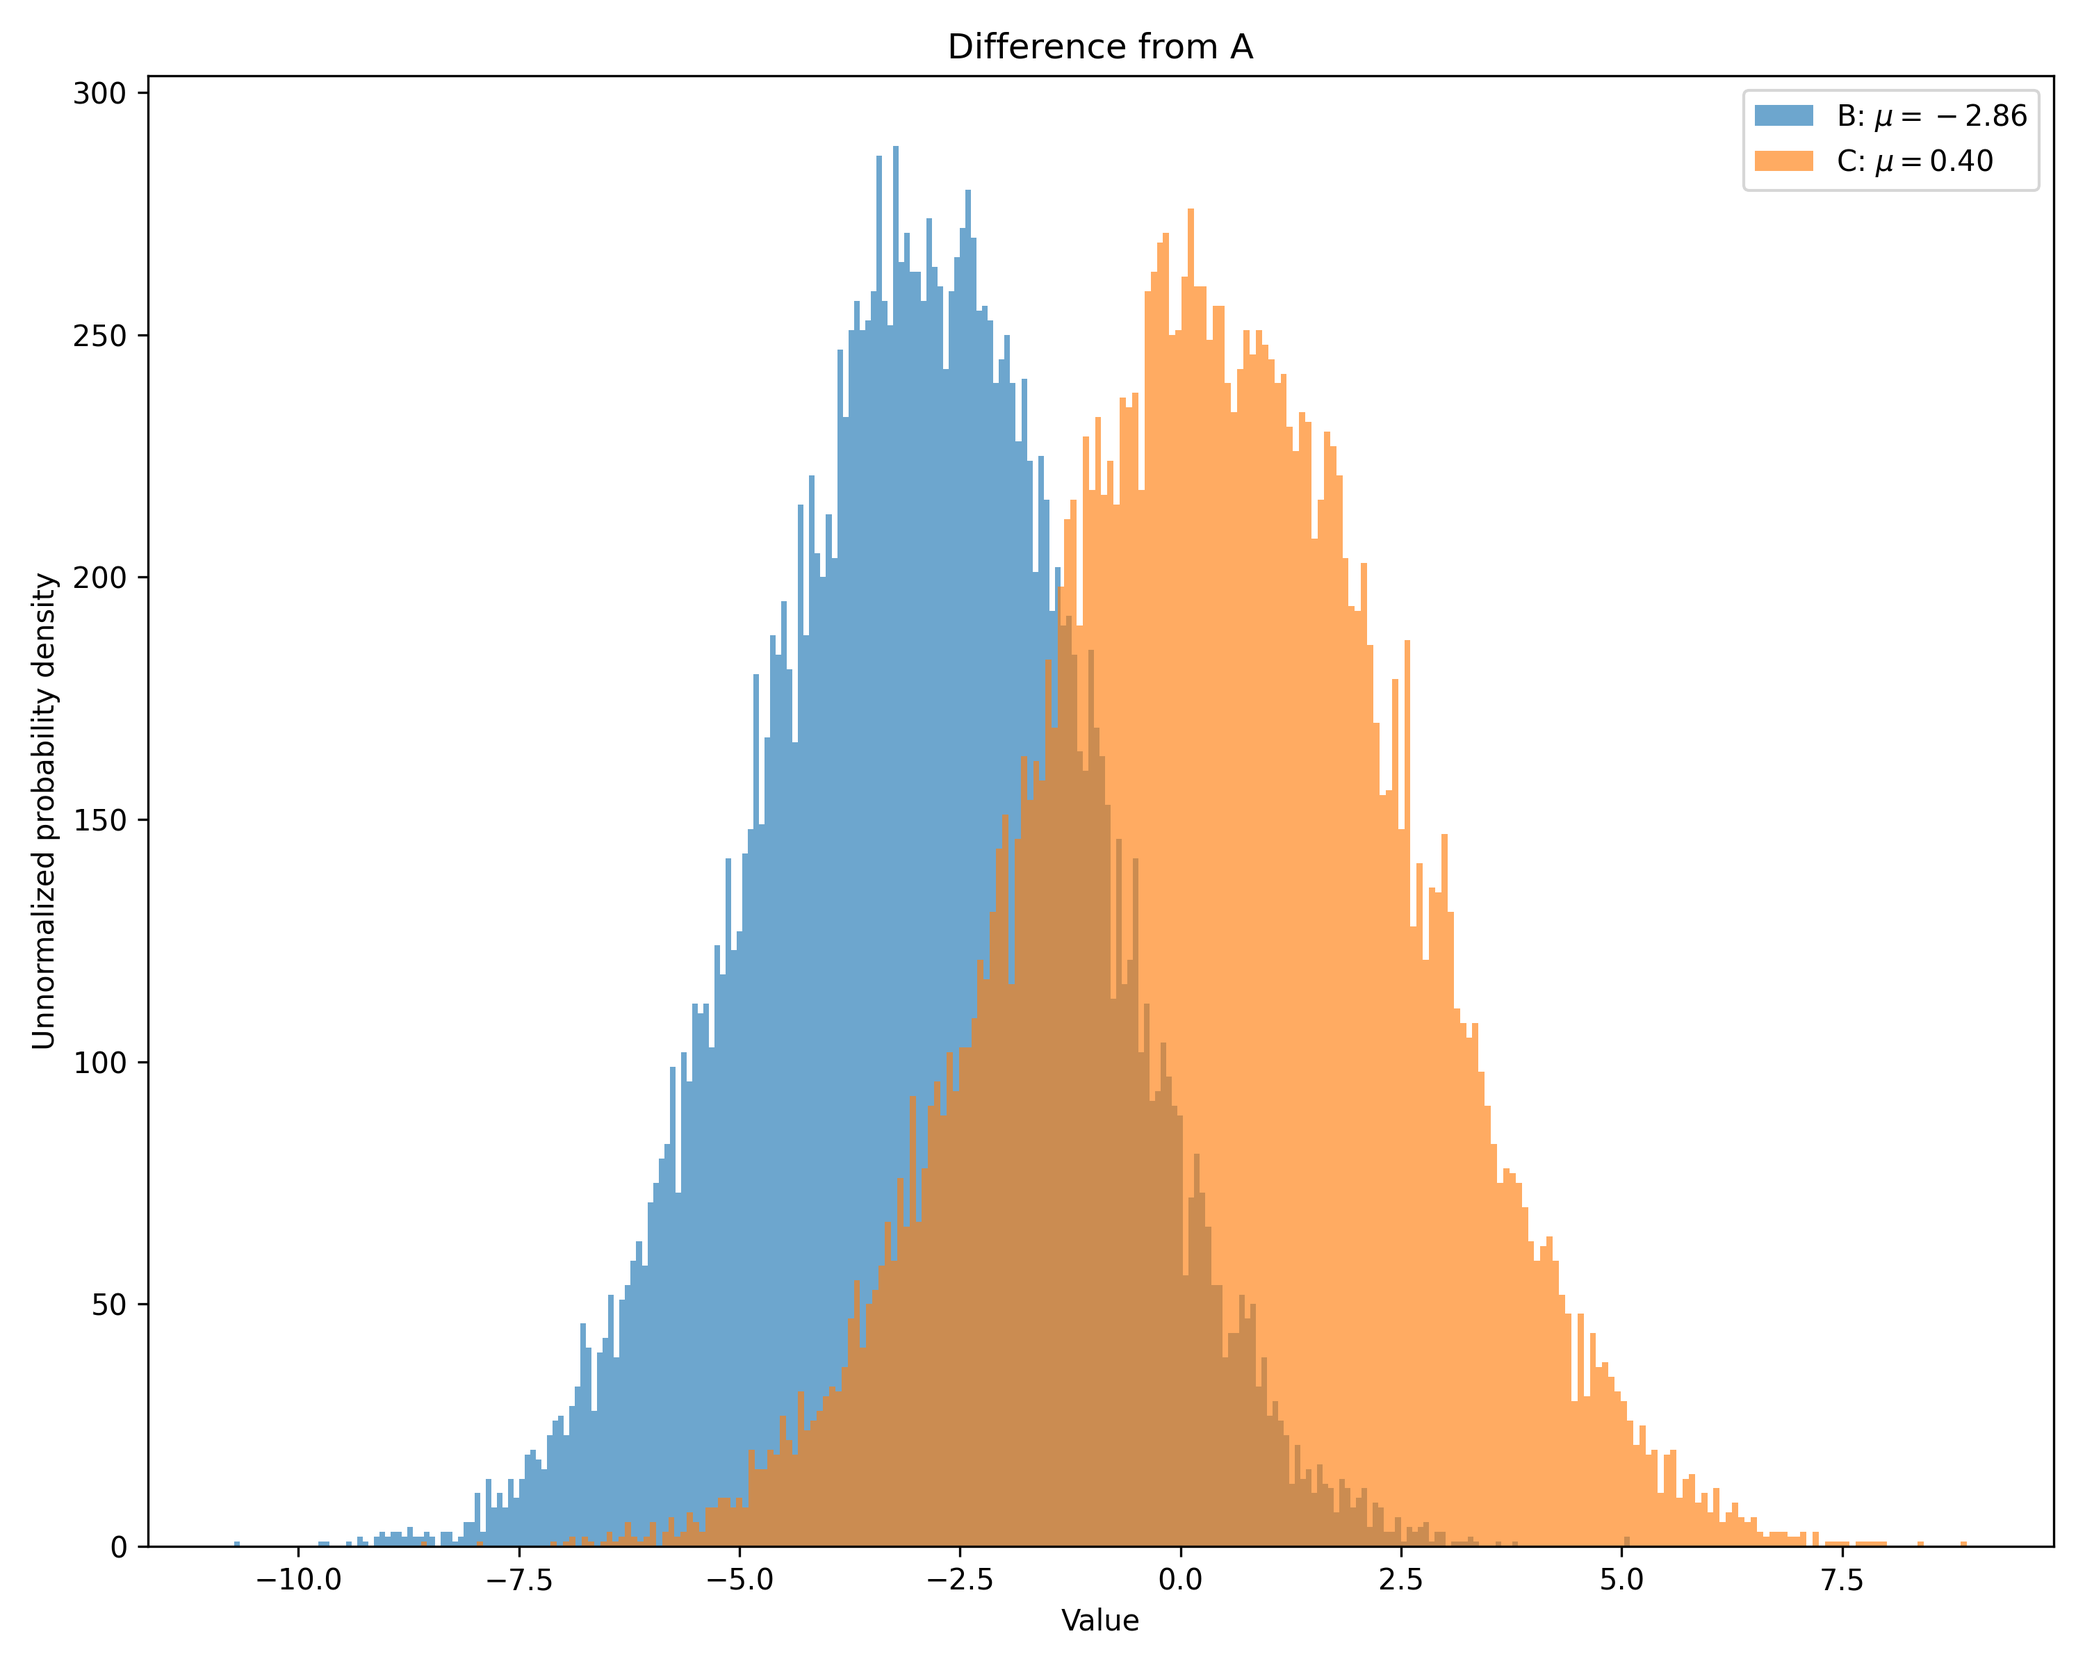
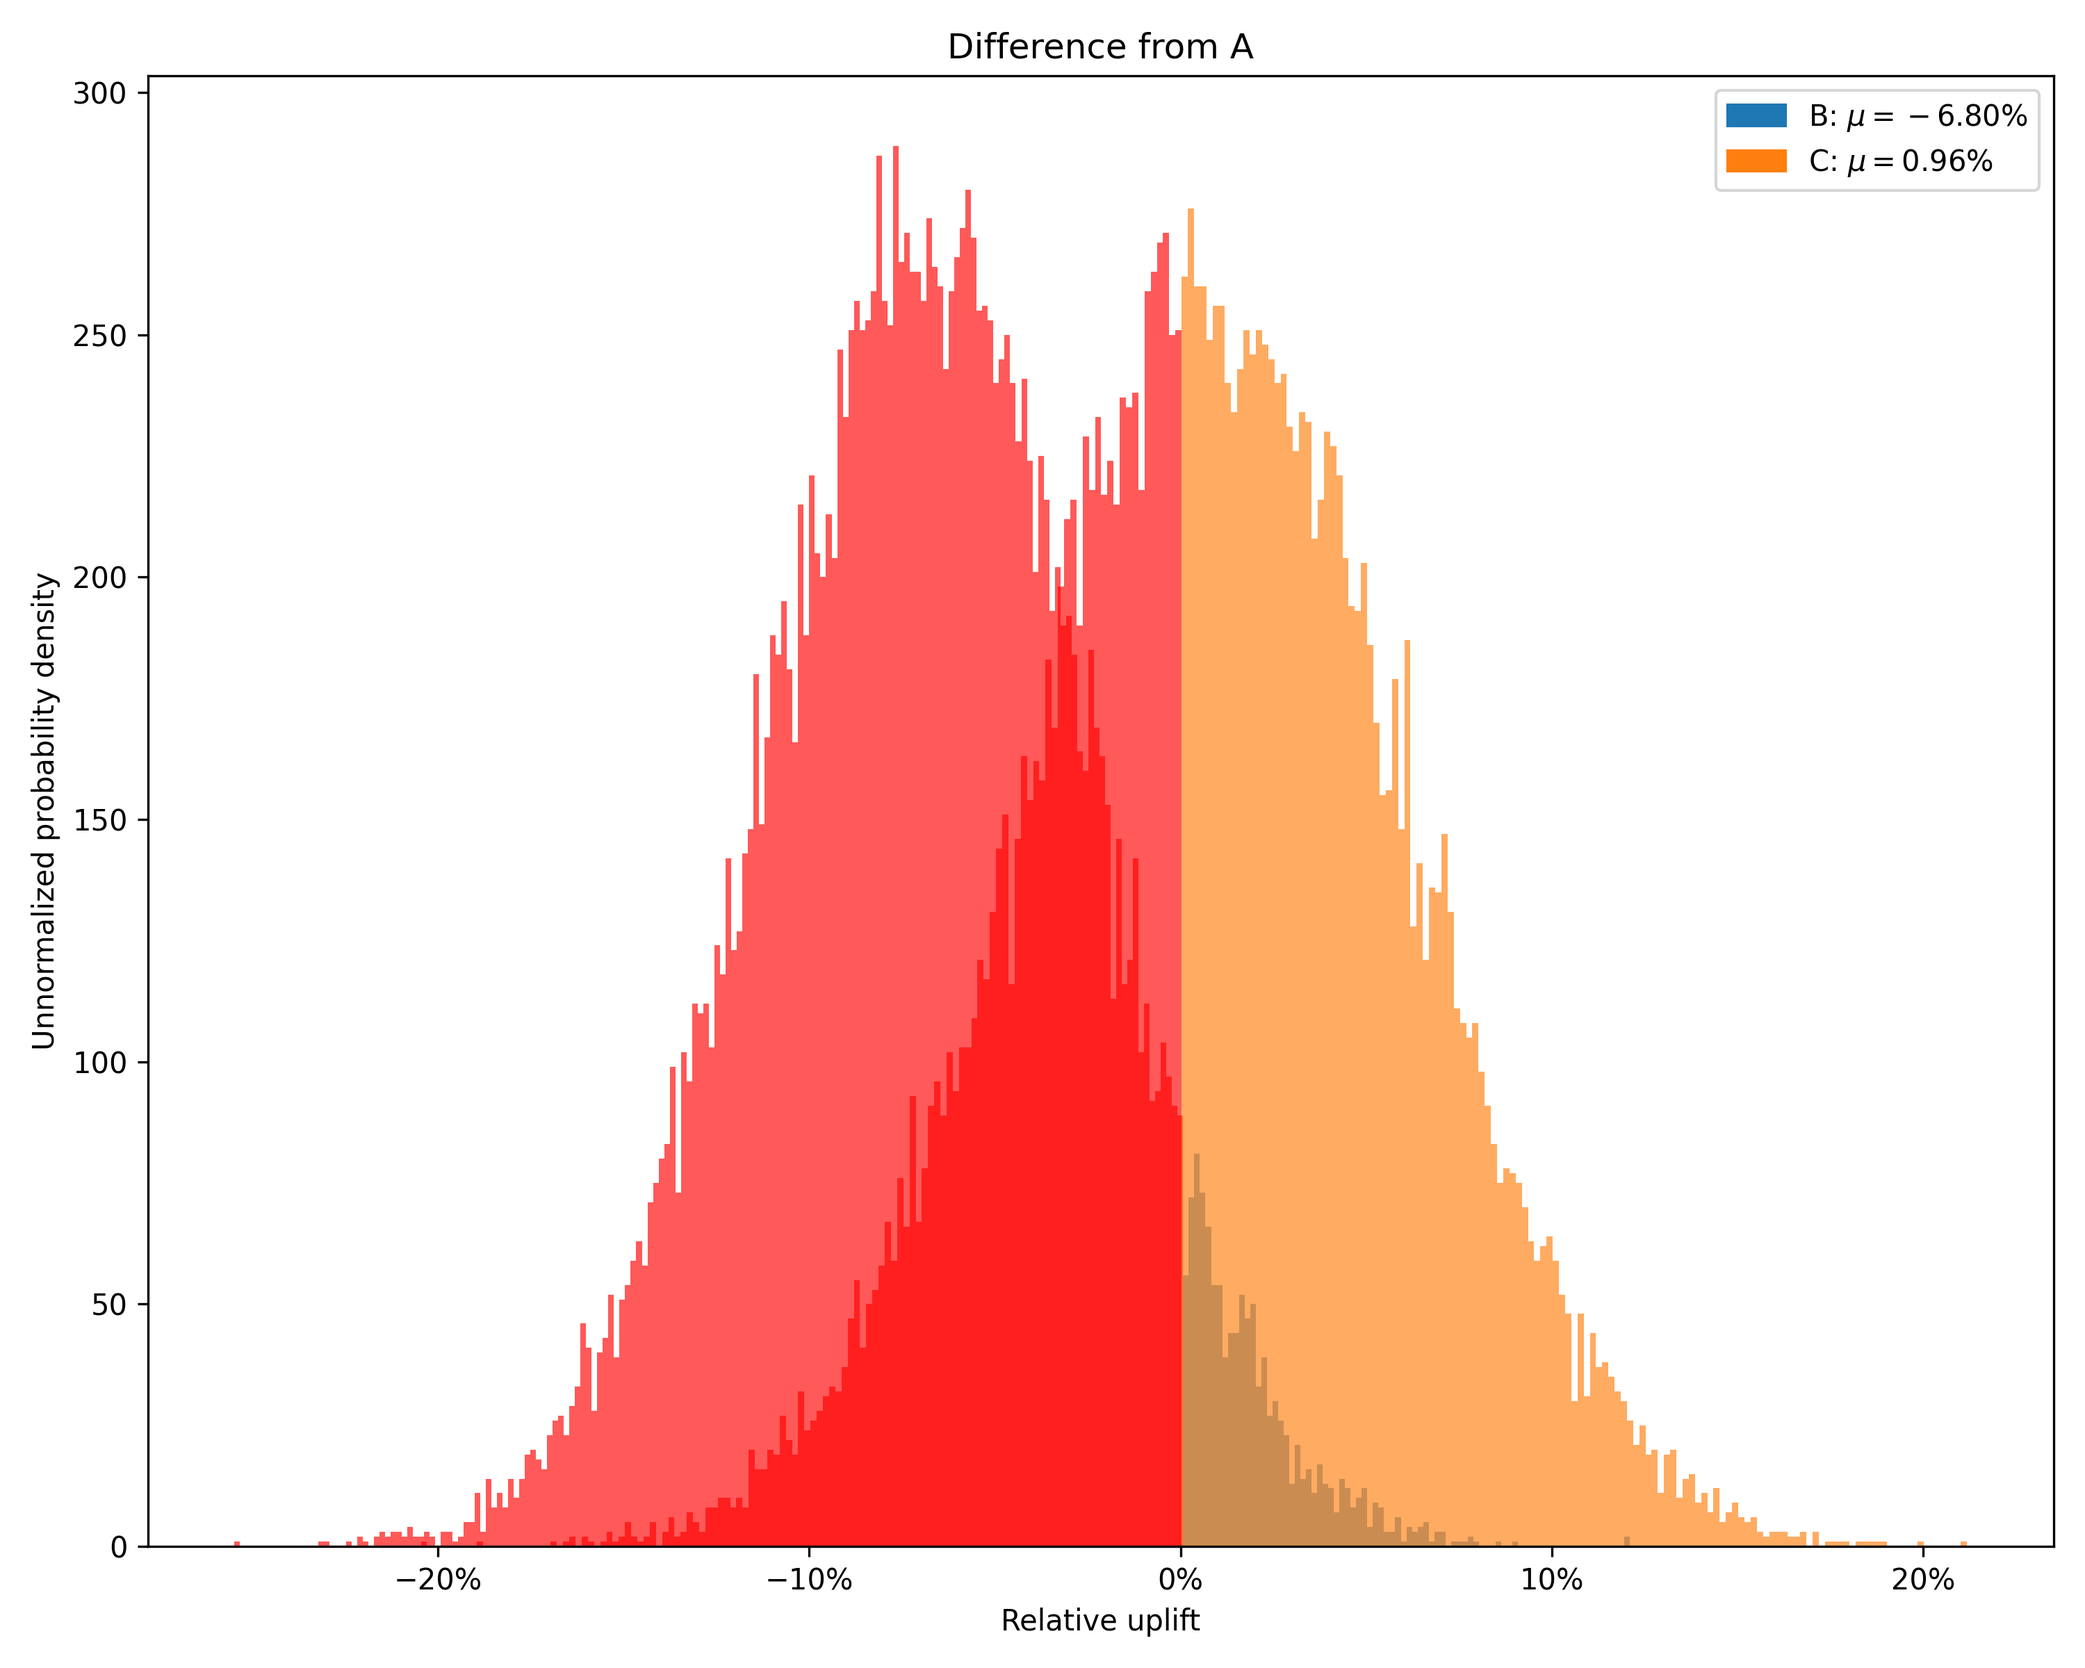
Updating plots, adding uplift to Poisson test.

diff --git a/bayes_ab/experiments/poisson.py b/bayes_ab/experiments/poisson.py
@@ -3,6 +3,9 @@ import numpy as np
 import warnings
 import matplotlib.pyplot as plt
 import scipy.stats as stats
+import matplotlib.colors as mcolors
+from matplotlib.patches import Rectangle
+import matplotlib.ticker as mtick
 
 from bayes_ab.experiments.base import BaseDataTest
 from bayes_ab.metrics import (
@@ -277,7 +280,7 @@ class PoissonDataTest(BaseDataTest):
         -------
         res : List of dictionaries with results per variant.
         """
-        keys = ["variant", "total", "mean", "prob_being_best", "expected_loss", "bounds"]
+        keys = ["variant", "total", "mean", "prob_being_best", "expected_loss", "uplift_vs_a", "bounds"]
 
         eval_pbbs, eval_loss = self._eval_simulation(sim_count, seed)
         pbbs = list(eval_pbbs.values())
@@ -289,7 +292,11 @@ class PoissonDataTest(BaseDataTest):
             if verbose:
                 print_closed_form_comparison(self.variant_names, pbbs, cf_pbbs)
 
-        data = [self.variant_names, self.totals, self.means, pbbs, loss, self.bounds]
+        uplift = [0]
+        for i in self.means[1:]:
+            uplift.append(round((i - self.means[0]) / self.means[0], 5))
+
+        data = [self.variant_names, self.totals, self.means, pbbs, loss, uplift, self.bounds]
         res = [dict(zip(keys, item)) for item in zip(*data)]
 
         if verbose:
@@ -461,17 +468,36 @@ class PoissonDataTest(BaseDataTest):
 
         xmin = max(self.means) * 5
         xmax = 0
-        for var in self.data:
+        colors = list(mcolors.TABLEAU_COLORS.values())
+        dist_names = []
+        for var, color in zip(self.data, colors):
             a = self.data[var]["a_prior"]
             totals = self.data[var]["total"]
             obs_mean = self.data[var]["obs_mean"]
             b = self.data[var]["b_prior"]
             mu = (a + totals * obs_mean) / (b + totals)
 
+            label = f"{var}: $\mu={mu:.1f}$"
+            dist_names.append(label)
             x = np.linspace(0, max(self.means) * 5, 10000)
             y = stats.gamma.pdf(x, a=a + totals * obs_mean, scale=1 / (b + totals))
-            ax.plot(x, y, label=f"{var}: $\mu={mu:.2f}$")
-            ax.fill_between(x, y, alpha=0.35)
+            ax.plot(x, y, label=label)
+
+            x_bound = x[
+                np.intersect1d(np.where(x > self.data[var]["bounds"][0])[0], np.where(x < self.data[var]["bounds"][1]))
+            ]
+            y_bound = y[
+                np.intersect1d(np.where(x > self.data[var]["bounds"][0])[0], np.where(x < self.data[var]["bounds"][1]))
+            ]
+            ax.fill_between(x_bound, y_bound, color=color, alpha=0.55)
+
+            x_bound = x[np.where(x < self.data[var]["bounds"][0])[0]]
+            y_bound = y[np.where(x < self.data[var]["bounds"][0])[0]]
+            ax.fill_between(x_bound, y_bound, color=color, alpha=0.10)
+
+            x_bound = x[np.where(x > self.data[var]["bounds"][1])[0]]
+            y_bound = y[np.where(x > self.data[var]["bounds"][1])[0]]
+            ax.fill_between(x_bound, y_bound, color=color, alpha=0.10)
 
             if x[np.where(y >= 0.0001)[0][0]] < xmin:
                 xmin = x[np.where(y >= 0.0001)[0][0]]
@@ -480,7 +506,9 @@ class PoissonDataTest(BaseDataTest):
 
         ax.set_ylabel("Probability density")
         ax.set_xlabel("Count value")
-        ax.legend()
+
+        handles = [Rectangle((0, 0), 1, 1, color=colors[i]) for i in range(len(self.data))]
+        ax.legend(handles, dist_names)
 
         plt.xlim([xmin * 0.9, xmax * 1.10])
 
@@ -507,15 +535,26 @@ class PoissonDataTest(BaseDataTest):
             figsize=(10, 8),
         )
 
+        hist_names = []
         for var in [i for i in self.variant_names if i != control]:
-            temp_sample = self.data[var]["samples"] - self.data[control]["samples"]
-            temp_mu = self.data[var]["mean"] - self.data[control]["mean"]
+            temp_sample = (self.data[var]["samples"] - self.data[control]["samples"]) / self.data[control]["mean"] * 100
+            temp_mu = (self.data[var]["mean"] - self.data[control]["mean"]) / self.data[control]["mean"]
 
-            ax.hist(temp_sample, num_bins, label=f"{var}: $\mu={temp_mu:.2f}$", alpha=0.65)
-            ax.set_xlabel("Value")
+            label = f"{var}: $\mu={temp_mu:.2%}$%"
+            hist_names.append(label)
+            n, bins, patches = ax.hist(temp_sample, num_bins, label=label, alpha=0.65)
+
+            for b, p in zip(bins, patches):
+                if b <= 0:
+                    p.set_facecolor("r")
+
+            ax.xaxis.set_major_formatter(mtick.PercentFormatter())
+            ax.set_xlabel("Relative uplift")
             ax.set_ylabel("Unnormalized probability density")
 
-        ax.legend()
+        colors = list(mcolors.TABLEAU_COLORS.values())
+        handles = [Rectangle((0, 0), 1, 1, color=colors[i]) for i in range(len(hist_names))]
+        ax.legend(handles, hist_names)
 
         plt.title(f"Difference from {control}")
         fig.tight_layout()

diff --git a/bayes_ab/experiments/binary.py b/bayes_ab/experiments/binary.py
@@ -4,6 +4,8 @@ import matplotlib.pyplot as plt
 import matplotlib.ticker as mtick
 import numpy as np
 import scipy.stats as stats
+import matplotlib.colors as mcolors
+from matplotlib.patches import Rectangle
 
 from bayes_ab.experiments.base import BaseDataTest
 from bayes_ab.metrics import eval_bernoulli_agg
@@ -517,17 +519,37 @@ class BinaryDataTest(BaseDataTest):
 
         xmin = 1
         xmax = 0
-        for var in self.data:
+        colors = list(mcolors.TABLEAU_COLORS.values())
+        dist_names = []
+        for var, color in zip(self.data, colors):
             a = self.data[var]["a_prior"]
             c = self.data[var]["positives"]
             b = self.data[var]["b_prior"]
             n = self.data[var]["total"]
             mu = self.data[var]["mean"]
 
+            label = f"{var}: $\mu={mu:.2%}$%"
+            dist_names.append(label)
             x = np.linspace(0, 1, 10000)
             y = stats.beta.pdf(x, a + c, b + n - c)
-            ax.plot(x * 100, y, label=f"{var}: $\mu={mu:.2%}$%")
-            ax.fill_between(x * 100, y, alpha=0.35)
+            ax.plot(x * 100, y, label=label)
+
+            x_bound = x[
+                np.intersect1d(np.where(x > self.data[var]["bounds"][0])[0], np.where(x < self.data[var]["bounds"][1]))
+            ]
+            y_bound = y[
+                np.intersect1d(np.where(x > self.data[var]["bounds"][0])[0], np.where(x < self.data[var]["bounds"][1]))
+            ]
+            ax.fill_between(x_bound * 100, y_bound, color=color, alpha=0.55)
+
+            x_bound = x[np.where(x < self.data[var]["bounds"][0])[0]]
+            y_bound = y[np.where(x < self.data[var]["bounds"][0])[0]]
+            ax.fill_between(x_bound * 100, y_bound, color=color, alpha=0.10)
+
+            x_bound = x[np.where(x > self.data[var]["bounds"][1])[0]]
+            y_bound = y[np.where(x > self.data[var]["bounds"][1])[0]]
+            ax.fill_between(x_bound * 100, y_bound, color=color, alpha=0.10)
+
             ax.xaxis.set_major_formatter(mtick.PercentFormatter())
 
             if x[np.where(y >= 0.0001)[0][0]] < xmin:
@@ -536,7 +558,9 @@ class BinaryDataTest(BaseDataTest):
                 xmax = x[np.where(y >= 0.0001)[0][-1]]
 
         ax.set_ylabel("Probability density")
-        ax.legend()
+
+        handles = [Rectangle((0, 0), 1, 1, color=colors[i]) for i in range(len(self.data))]
+        ax.legend(handles, dist_names)
 
         plt.xlim(xmin * 80, xmax * 120)
 
@@ -558,21 +582,31 @@ class BinaryDataTest(BaseDataTest):
         fname : Filename to which to save the resultant image; if None, the image is not saved.
         dpi : DPI setting for saved image; used only when fname is not None.
         """
-        num_bins = 250
+        num_bins = 300
         fig, ax = plt.subplots(
             figsize=(10, 8),
         )
 
+        hist_names = []
         for var in [i for i in self.variant_names if i != control]:
-            temp_sample = self.data[var]["samples"] - self.data[control]["samples"]
-            temp_mu = self.data[var]["mean"] - self.data[control]["mean"]
+            temp_sample = (self.data[var]["samples"] - self.data[control]["samples"]) / self.data[control]["mean"] * 100
+            temp_mu = (self.data[var]["mean"] - self.data[control]["mean"]) / self.data[control]["mean"]
 
-            ax.hist(temp_sample, num_bins, label=f"{var}: $\mu={temp_mu:.2%}$%", alpha=0.65)
+            label = f"{var}: $\mu={temp_mu:.2%}$%"
+            hist_names.append(label)
+            n, bins, patches = ax.hist(temp_sample, num_bins, label=label, alpha=0.65)
+
+            for b, p in zip(bins, patches):
+                if b <= 0:
+                    p.set_facecolor("r")
+
             ax.xaxis.set_major_formatter(mtick.PercentFormatter())
-            ax.set_xlabel("Probability")
+            ax.set_xlabel("Relative probability uplift")
             ax.set_ylabel("Probability density")
 
-        ax.legend()
+        colors = list(mcolors.TABLEAU_COLORS.values())
+        handles = [Rectangle((0, 0), 1, 1, color=colors[i]) for i in range(len(hist_names))]
+        ax.legend(handles, hist_names)
 
         plt.title(f"Difference from {control}")
         fig.tight_layout()

diff --git a/bayes_ab/utilities/output.py b/bayes_ab/utilities/output.py
@@ -12,11 +12,13 @@ def print_poisson_evaluation(res: list) -> None:
         "Mean",
         "Chance to beat all",
         "Expected loss",
+        'Uplift vs. "A"',
         "95% HDI",
     ]
     for r in res:
         temp_row = r.copy()
         temp_row["prob_being_best"] = f"{temp_row['prob_being_best']:.2%}"
+        temp_row["uplift_vs_a"] = f"{temp_row['uplift_vs_a']:.2%}"
         temp_row["expected_loss"] = round(temp_row["expected_loss"], 2)
         temp_row["mean"] = round(temp_row["mean"], 1)
         temp_row = [
@@ -25,6 +27,7 @@ def print_poisson_evaluation(res: list) -> None:
             temp_row["mean"],
             temp_row["prob_being_best"],
             temp_row["expected_loss"],
+            temp_row["uplift_vs_a"],
             f'[{temp_row["bounds"][0]:.1f}, {temp_row["bounds"][1]:.1f}]',
         ]
 

diff --git a/README.md b/README.md
@@ -204,13 +204,13 @@ test.plot_posteriors(fname='poisson_posteriors_example.png')
 test.plot_differences(control='A', fname='poisson_differences_example.png')
 ```
 
-    +---------+--------------+------+--------------------+---------------+--------------+
-    | Variant | Observations | Mean | Chance to beat all | Expected loss |   95% HDI    |
-    +---------+--------------+------+--------------------+---------------+--------------+
-    |    C    |      15      | 42.5 |       56.38%       |      0.69     | [39.9, 45.2] |
-    |    A    |      20      | 42.1 |       42.57%       |      1.08     | [39.8, 44.5] |
-    |    B    |      25      | 39.2 |       1.05%        |      3.97     | [37.2, 41.3] |
-    +---------+--------------+------+--------------------+---------------+--------------+
+    +---------+--------------+------+--------------------+---------------+----------------+--------------+
+    | Variant | Observations | Mean | Chance to beat all | Expected loss | Uplift vs. "A" |   95% HDI    |
+    +---------+--------------+------+--------------------+---------------+----------------+--------------+
+    |    C    |      15      | 42.5 |       56.38%       |      0.69     |     0.96%      | [39.9, 45.2] |
+    |    A    |      20      | 42.1 |       42.57%       |      1.08     |     0.00%      | [39.8, 44.5] |
+    |    B    |      25      | 39.2 |       1.05%        |      3.97     |     -6.80%     | [37.2, 41.3] |
+    +---------+--------------+------+--------------------+---------------+----------------+--------------+
 
 Removing variant 'C' and passing `control='A'` and `rope=0.5` additionally returns a test-continuation recommendation:
 
@@ -437,7 +437,7 @@ particular derivation, the doc string contains the exact reference.
 - [Easy Evaluation of Decision Rules in Bayesian A/B testing](
   https://www.chrisstucchio.com/blog/2014/bayesian_ab_decision_rule.html) (Chris Stucchio, 2014)
 - [Bayesian Inference 2019](https://vioshyvo.github.io/Bayesian_inference/index.html) (Hyvönen & Tolonen, 2019)
-- [Continuous Monitoring of A/B Tests without Pain: Optional Stopping in Bayesian Testing](https://arxiv.org/pdf/1602.05549.pdf) 
+- [Continuous Monitoring of A/B Tests without Pain: Optional Stopping in Bayesian Testing](https://arxiv.org/pdf/1602.05549.pdf)
 (Deng, Lu, & Chen, 2016)
 - [Bayesian Data Analysis, Third Edition](http://www.stat.columbia.edu/~gelman/book/BDA3.pdf) (Gelman et al., 2021)
 
@@ -453,6 +453,6 @@ particular derivation, the doc string contains the exact reference.
 
 This package was forked from Matus Baniar's [`bayesian_testing`](https://github.com/Matt52/bayesian-testing). Upon
 deciding to take package development in a different direction, I detached the fork from the original repository. The
-original author's contributions are large, however, with his central contributions being to the development of the 
-core infrastructure of the project. This being the first package I have worked on, the original author's work to 
+original author's contributions are large, however, with his central contributions being to the development of the
+core infrastructure of the project. This being the first package I have worked on, the original author's work to
 prepare this code for packaging has also been instrumental to package publication, not to mention educative.
